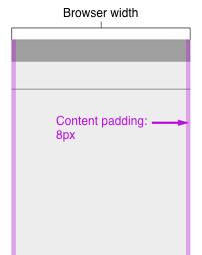
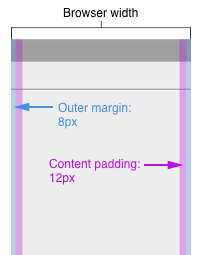
Updated common design layout info

Changed region(s): [[0.0297, 0.0824, 0.9505, 1.0]]

diff --git a/docs/common-design/layout-info.html b/docs/common-design/layout-info.html
@@ -34,7 +34,7 @@ title: Common Design Layout
     </div>
     <div class="row">
       <div class="col-sm-6">
-        <p>The images below explain how the layout works at different screen widths, an <a href="cd-layout-demo.html" target="_blank">example you can test in the browser is here</a>.</p>
+        <p>The images below explain how the layout works at different screen widths, an <a href="demo.html">example you can test in the browser is here</a>.</p>
       </div>
       <div class="col-sm-6">
         {% highlight html %}
@@ -64,11 +64,11 @@ title: Common Design Layout
 
           <div class="row">
             <div class="col-sm-6">
-              <img src="/assets/images/cd-small-layout.png" alt="Illustration of small screen layout">
+              <img src="{{ "/styleguide/assets/images/cd-small-layout.png "| prepend: site.baseurl }}" alt="Illustration of small screen layout">
             </div>
             <div class="col-sm-6">
               <p>Page takes up 100% of screen width.</p>
-              <p>8px padding at the sides.</p>
+              <p>12px padding at the sides. Plus a 8px margin between the sides of the page and the screen.</p>
             </div>
           </div>
         </div>
@@ -81,11 +81,11 @@ title: Common Design Layout
 
           <div class="row">
             <div class="col-sm-6">
-              <img src="/assets/images/cd-medium-layout.png" alt="Illustration of medium screen layout">
+              <img src="{{ "/styleguide/assets/images/cd-medium-layout.png" | prepend: site.baseurl}}" alt="Illustration of medium screen layout">
             </div>
             <div class="col-sm-6">
               <p>Page takes up 100% of screen width.</p>
-              <p>16px padding at the sides. Plus a 8px margin between the sides of the page and the screen.</p>
+              <p>24px padding at the sides. Plus a 8px margin between the sides of the page and the screen.</p>
             </div>
           </div>
         </div>
@@ -99,7 +99,7 @@ title: Common Design Layout
 
           <div class="row">
             <div class="col-sm-6">
-              <img src="/assets/images/cd-large-layout.png" alt="Illustration of large screen layout">
+              <img src="{{ "/styleguide/assets/images/cd-large-layout.png" | prepend: site.baseurl }}" alt="Illustration of large screen layout">
             </div>
             <div class="col-sm-6">
               <p>Page takes up 100% of screen width up to a maximum of 1400px.</p>

diff --git a/docs/common-design/demo.html b/docs/common-design/demo.html
@@ -10,9 +10,14 @@
       {% include_relative /templates/cd-header.html %}
 
       <div class="cd-container">
-        <div style="min-height: 200px">
-          <!-- placeholder to take up some space as no content -->
+
+        <!-- explanatory text, not part of common design layout -->
+        <div style="min-height: 200px; font-family: sans-serif; font-size: 16px; color: #4A4A4A; padding-top: 20px;">
+          <h1 style="font-size: 16px;">Common Design Layout, Header and Footer example</h1>
+          <p><a href="index.html">Back to Common Design docs</a></p>
         </div>
+        <!-- explanatory text ends -->
+
       </div>
 
     </div>
